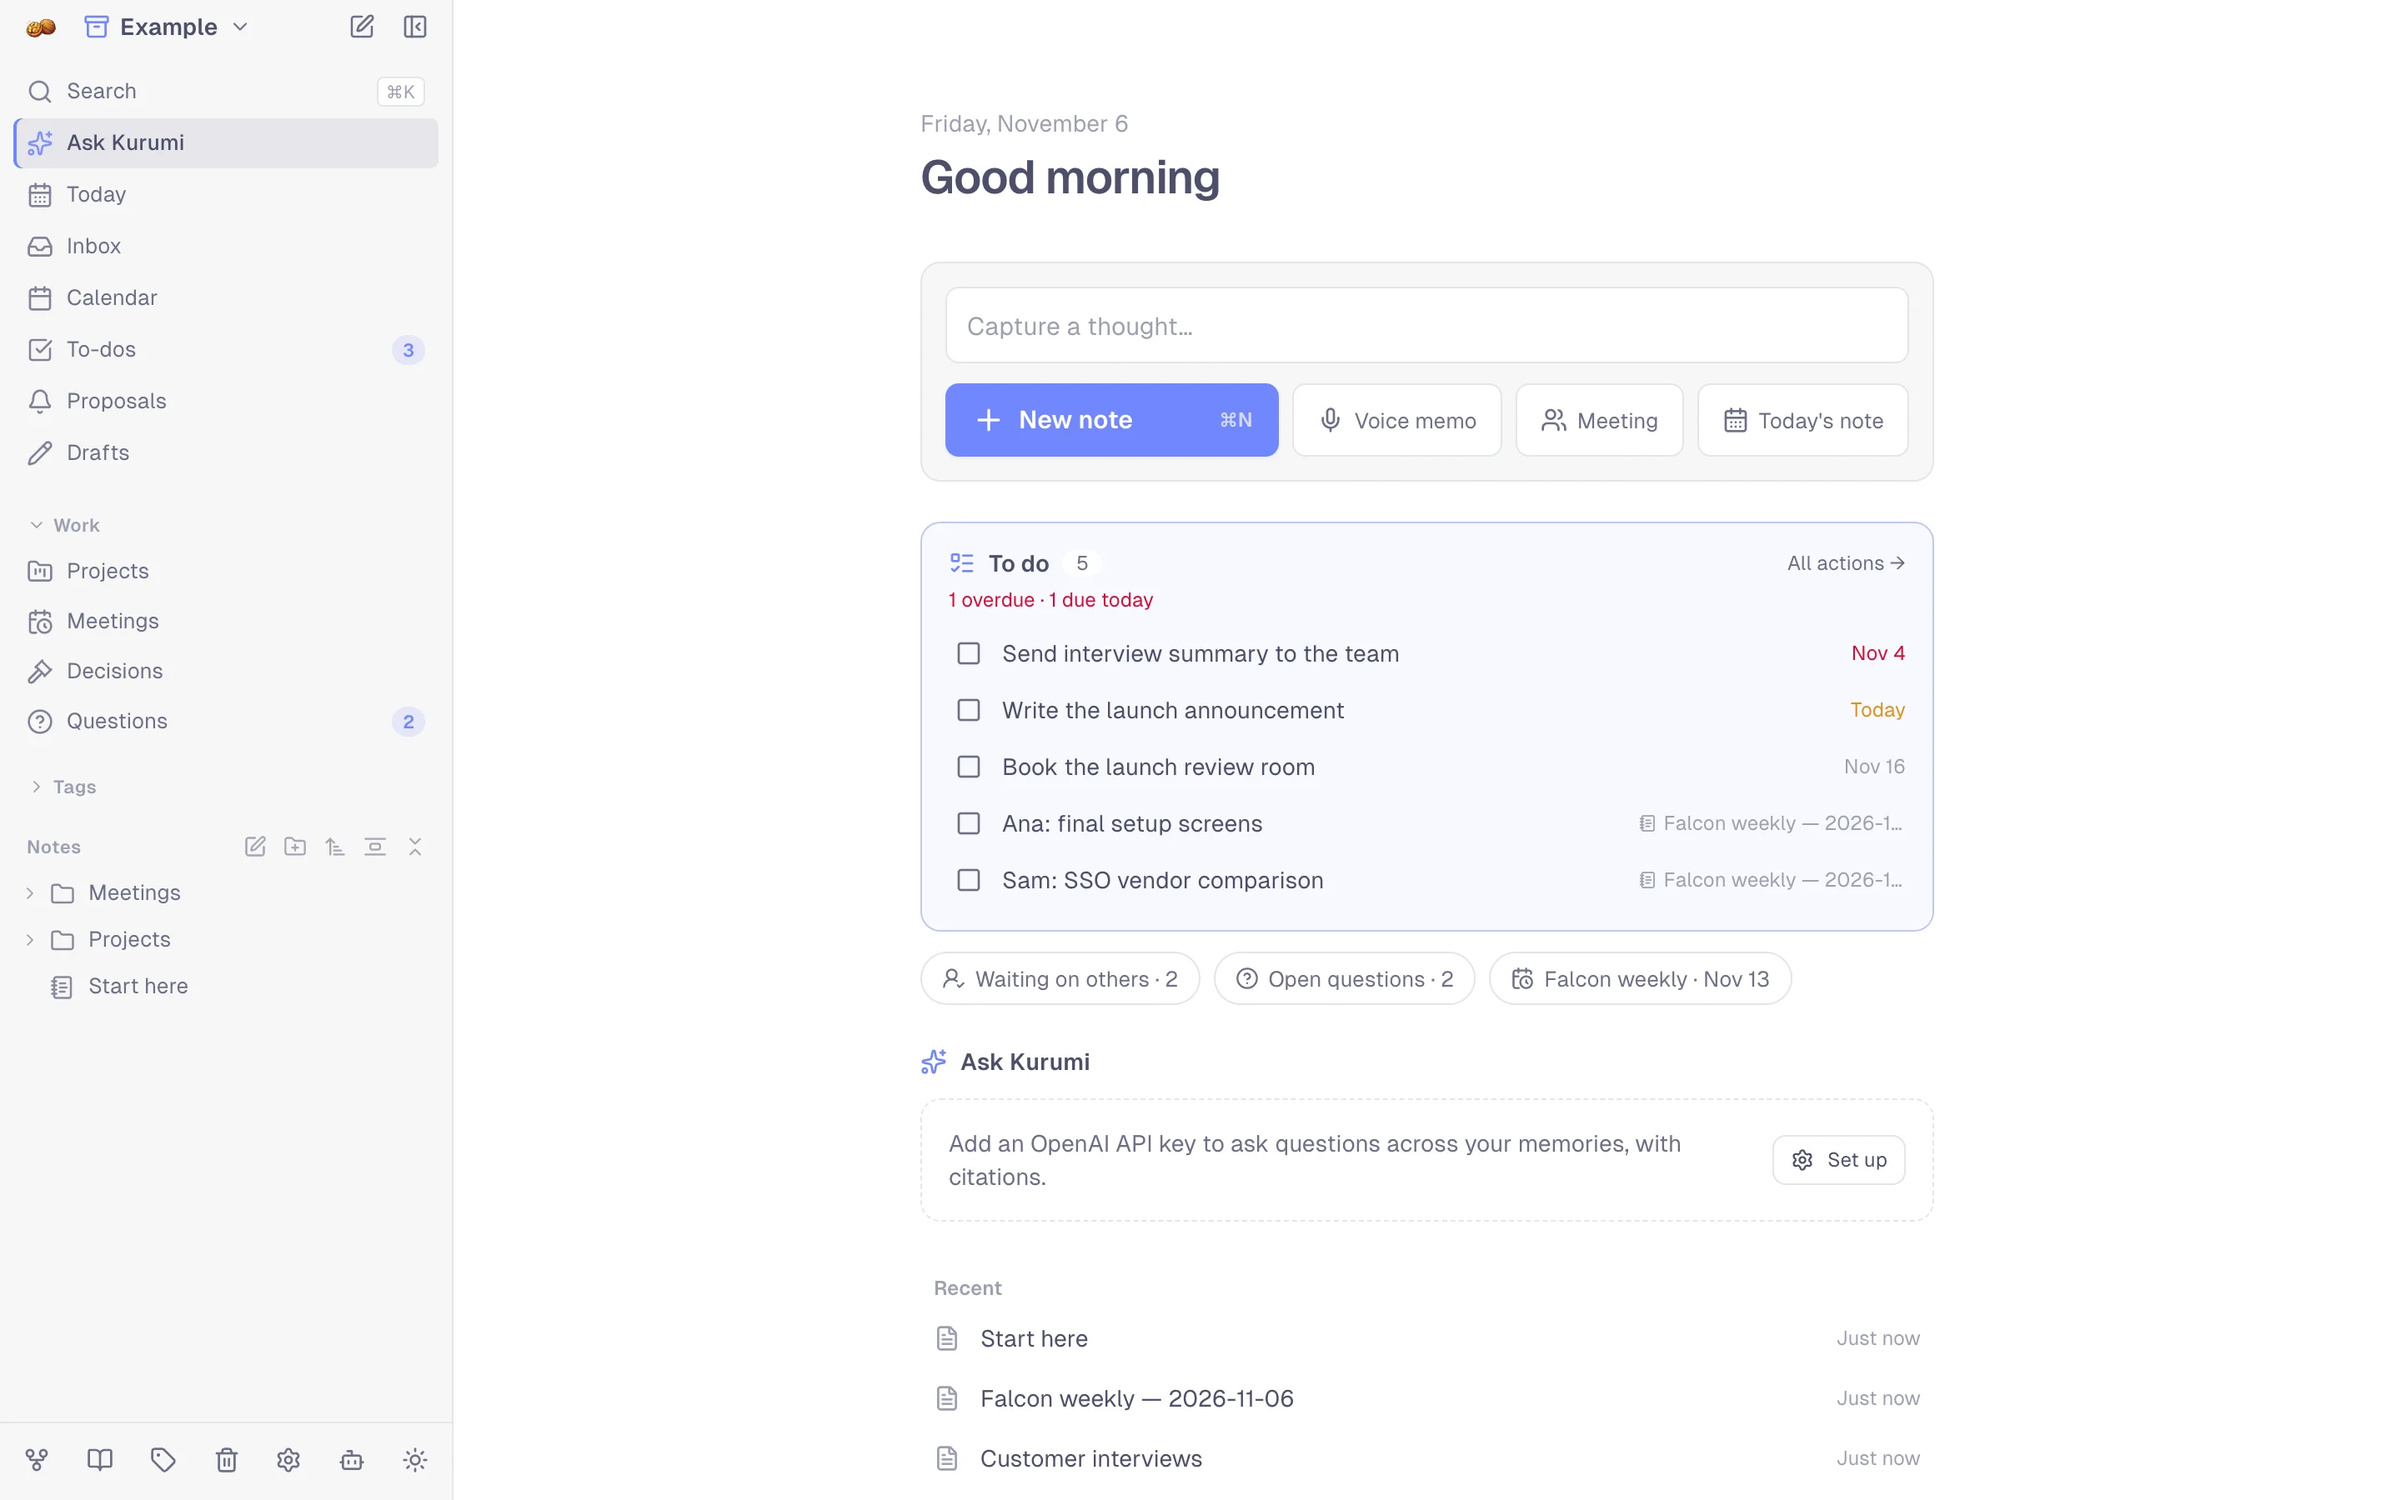
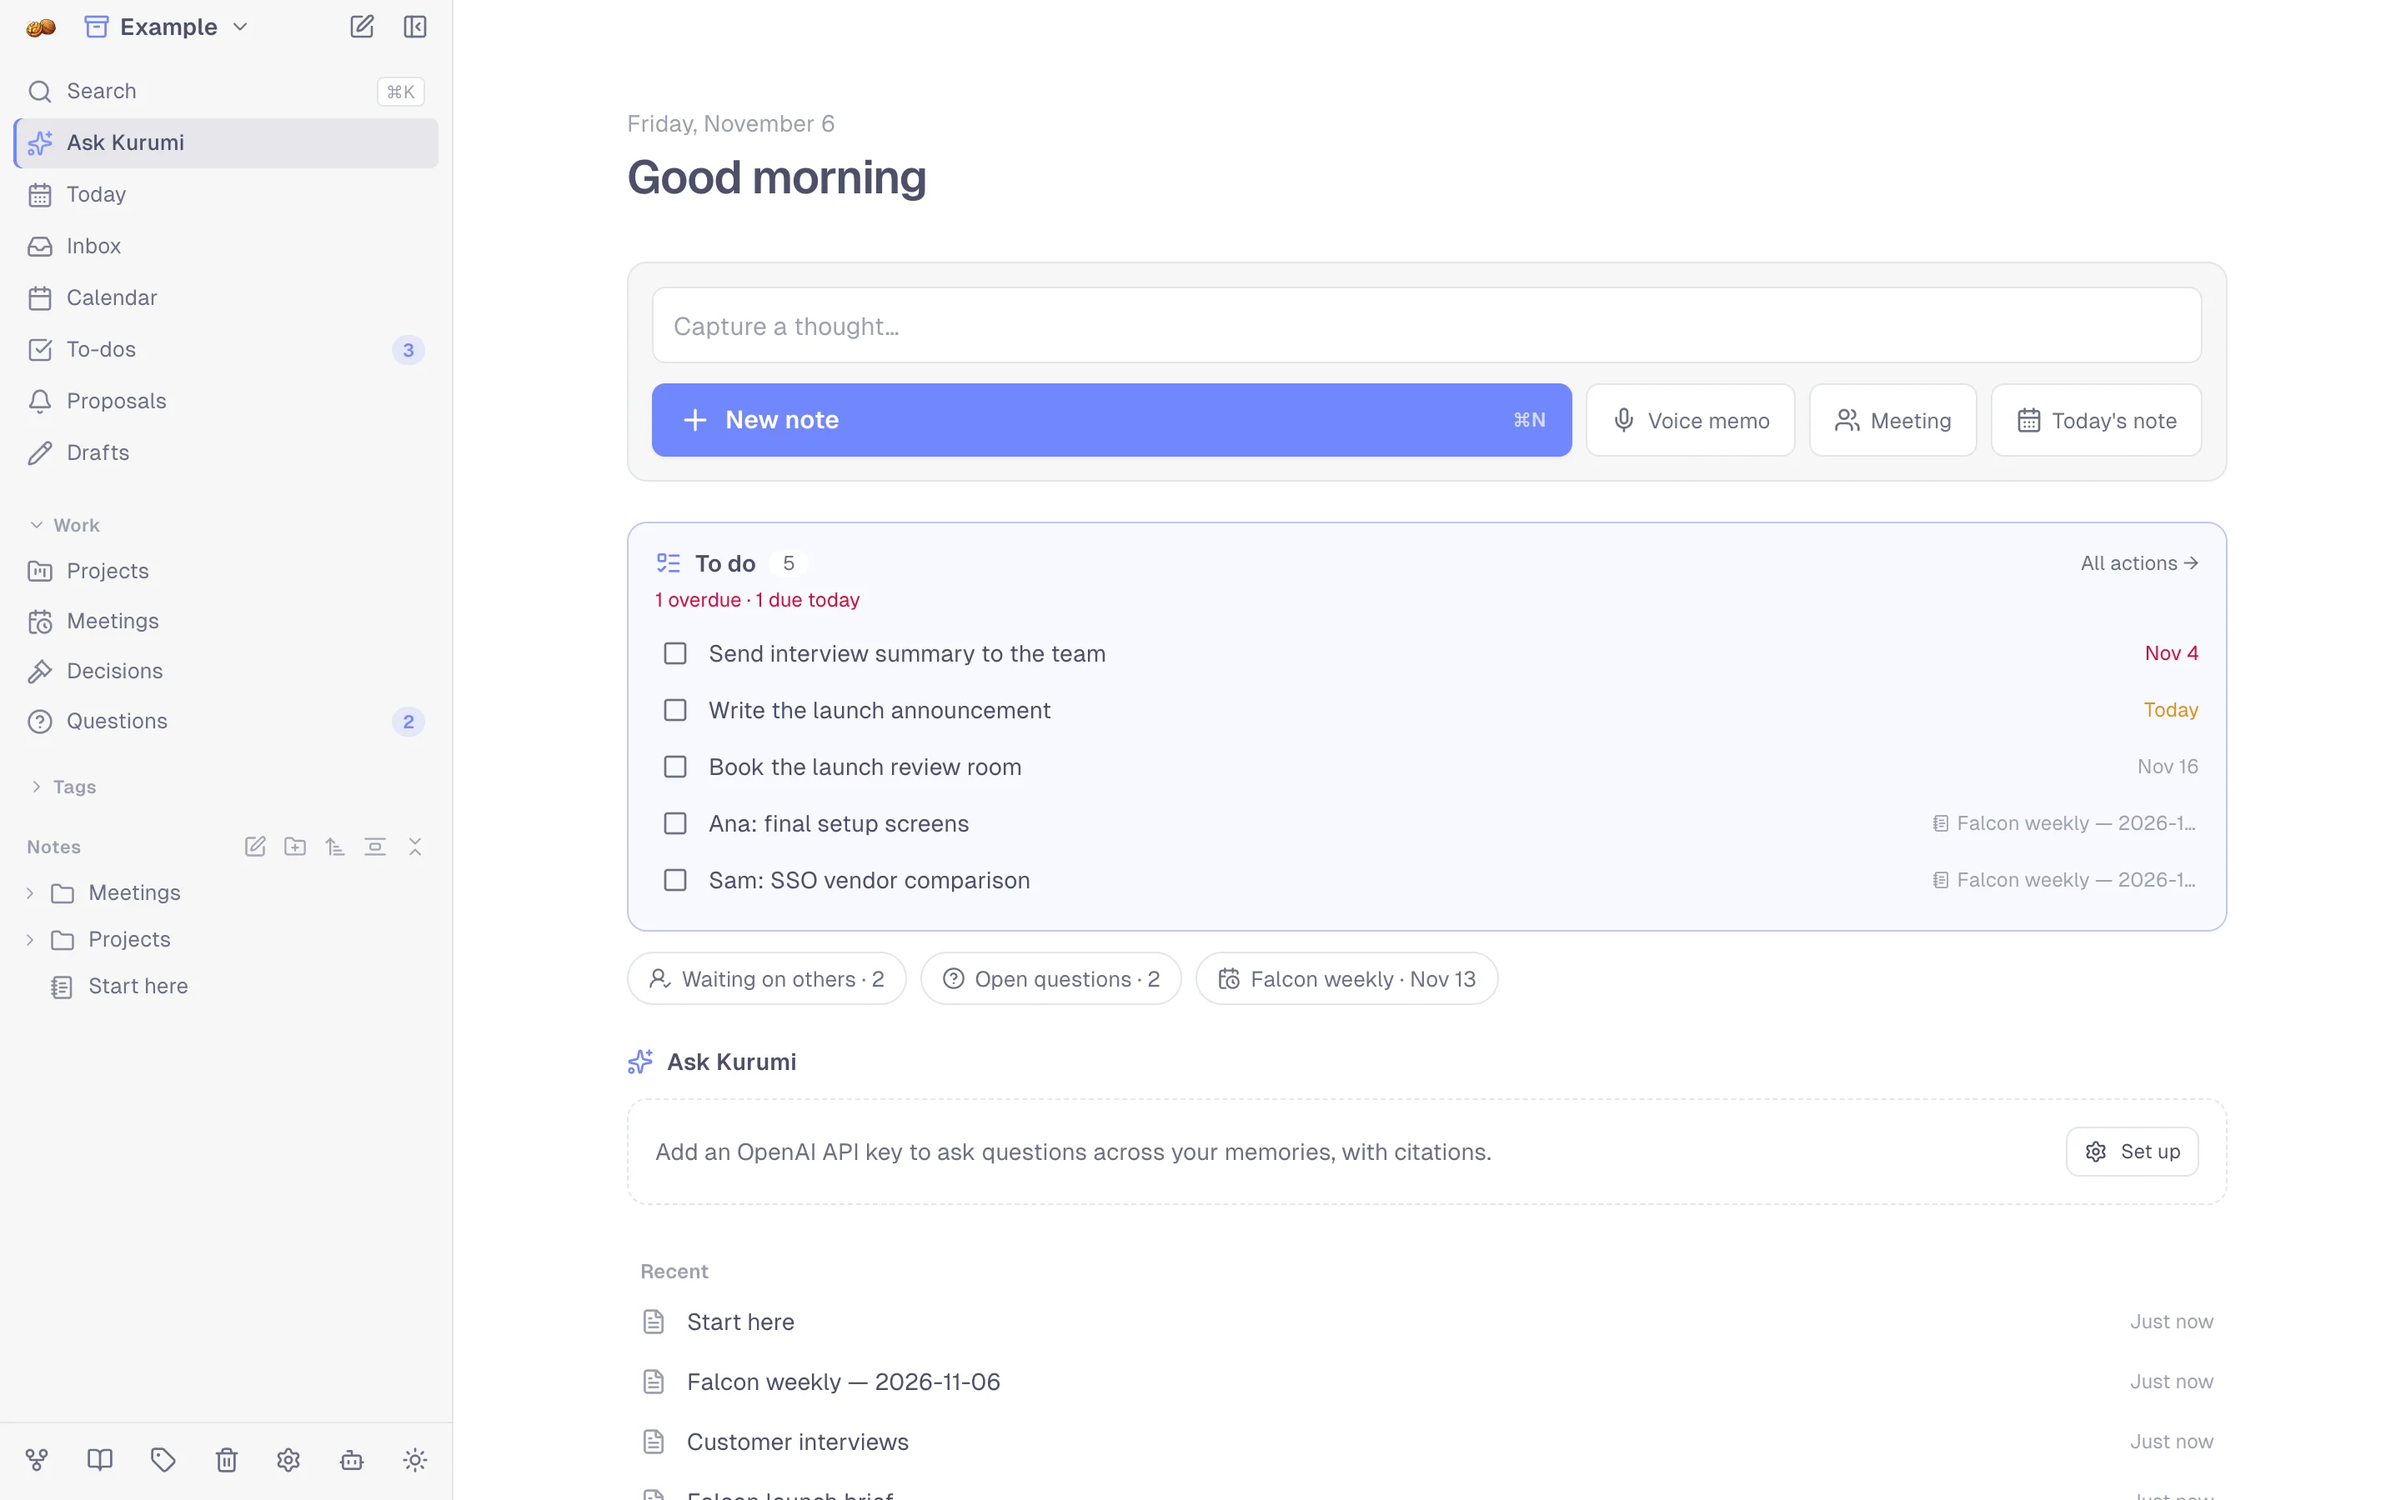
feat: every page follows the content width, not just notes
The width setting (now "Content width" in Settings → Appearance) applies
to the home page and every .k-page list (projects, drafts, to-dos,
meetings, people, …), not only notes and Read mode. Calendar, the to-do
board, smart folders and databases keep at least 76rem; Settings leaves
room for its section menu. Wide (64rem) stays the default: list pages
were 46rem and the home page 42rem.

diff --git a/src/routes/settings/[[section]]/+page.svelte b/src/routes/settings/[[section]]/+page.svelte
@@ -1215,8 +1215,8 @@
 
 						<div class="set-row">
 							<div class="set-row-text">
-								<div class="set-row-label" id="width-label">Note width</div>
-								<p class="set-row-help">How wide notes are, when editing and in Read mode. On this device.</p>
+								<div class="set-row-label" id="width-label">Content width</div>
+								<p class="set-row-help">How wide notes and pages are: the editor, Read mode, lists and the home page. On this device.</p>
 							</div>
 							<div class="k-segmented" role="group" aria-labelledby="width-label">
 								<button aria-pressed={noteWidth === 'narrow'} onclick={() => setNoteWidth('narrow')}>Narrow</button>
@@ -2860,10 +2860,10 @@
 		display: none;
 	}
 
-	/* Sticky section nav only when there's room beside the 46rem column */
+	/* Sticky section nav only when there's room beside the content column */
 	@media (min-width: 1024px) {
 		.settings-page {
-			max-width: 62rem;
+			max-width: max(62rem, calc(var(--note-width) + 12rem));
 		}
 
 		.settings-nav,

diff --git a/src/app.css b/src/app.css
@@ -229,8 +229,8 @@
 	--accent-dark-hover: color-mix(in srgb, #cba6f7 80%, white);
 }
 
-/* Note width (Settings → Appearance): the text column of the editor and
-   the reader. Wide is the default. */
+/* Content width (Settings → Appearance): notes, Read mode and every page
+   built on .k-page, plus the home page. Wide is the default. */
 :root {
 	--note-width: 64rem;
 }
@@ -657,13 +657,14 @@ textarea {
 	   then content sections. */
 	.k-page {
 		width: 100%;
-		max-width: 46rem;
+		max-width: var(--note-width);
 		margin: 0 auto;
 		padding: 2rem 1.25rem 6rem;
 	}
 
+	/* Calendars and grids need more room than reading does */
 	.k-page-wide {
-		max-width: 64rem;
+		max-width: max(var(--note-width), 76rem);
 	}
 
 	@media (min-width: 768px) {

diff --git a/src/routes/+page.svelte b/src/routes/+page.svelte
@@ -501,7 +501,7 @@
 	});
 </script>
 
-<div class="mx-auto max-w-2xl px-5 py-8 md:px-8 md:py-16">
+<div class="mx-auto max-w-[var(--note-width)] px-5 py-8 md:px-8 md:py-16" data-testid="home-page">
 	{#if $memoryObjects.length === 0}
 		<!-- Empty-vault welcome state -->
 		<div class="flex flex-col items-center pt-[8vh] text-center">

diff --git a/src/routes/actions/+page.svelte b/src/routes/actions/+page.svelte
@@ -862,7 +862,7 @@
 <style>
 	/* The board needs more room than the list's reading width. */
 	.board-page {
-		max-width: 76rem;
+		max-width: max(var(--note-width), 76rem);
 	}
 
 	.items {

diff --git a/.claude/CLAUDE.md b/.claude/CLAUDE.md
@@ -218,8 +218,9 @@ OpenAI to MMS when the API key is missing.
   is in it) and the reader, both through `$lib/mermaid.ts` (strict security,
   colours and font from the theme)
 - Appearance (per device, applied before first paint in `app.html`): accent
-  colour (`accent-*` classes set `--accent-light/dark`), note width
-  (`note-width-*`, `--note-width`)
+  colour (`accent-*` classes set `--accent-light/dark`), content width
+  (`note-width-*`, `--note-width`: notes, Read mode, `.k-page`, home; grids
+  use at least 76rem)
 - Editor plugins register their UI callbacks per editor container
   (`editor/registry.ts`), so two editors can be open at once
 - Split view: a second note beside the main one (`SplitPane.svelte`,

diff --git a/docs/editor.md b/docs/editor.md
@@ -10,8 +10,8 @@ editor.
 </picture>
 
 Settings → Appearance sets the accent colour, the editor font, its size, and
-the note width: Narrow, Wide (the default) or Full. Width and accent apply to
-Read mode too, and each device keeps its own.
+the content width: Narrow, Wide (the default) or Full. Width applies to notes,
+Read mode and every other page, and each device keeps its own.
 
 A code block with the language `mermaid` shows a
 [Mermaid](https://mermaid.js.org) diagram, in the note's colours. Click the
